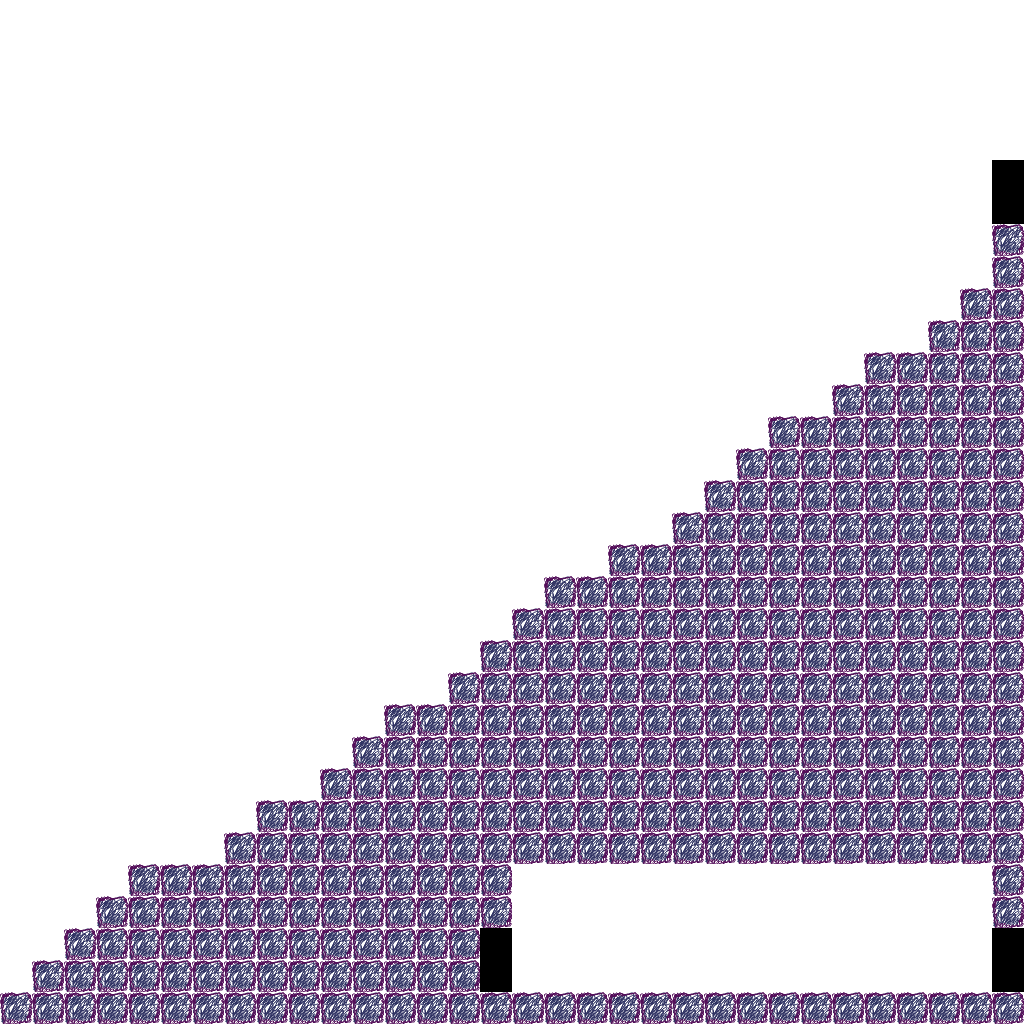
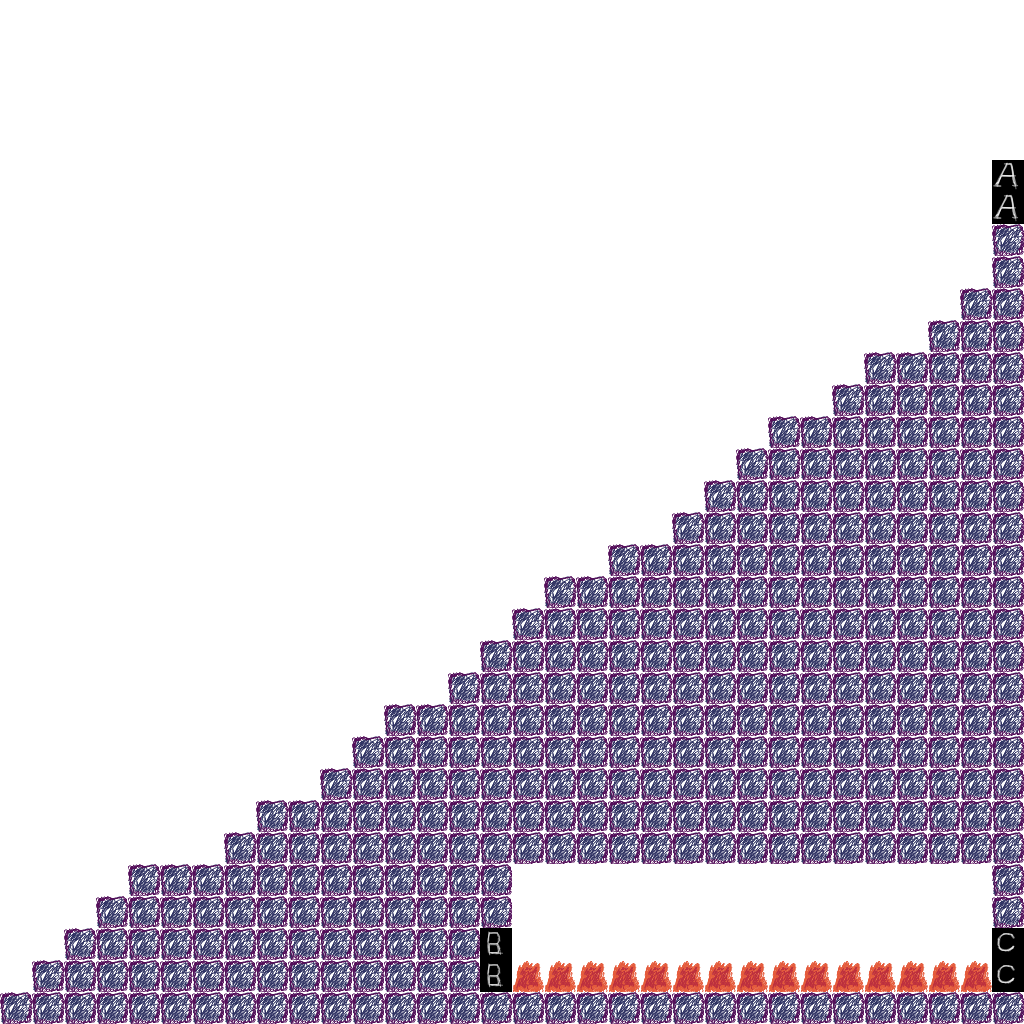
stormaldn mountain

Changed region(s): [[0.4688, 0.9062, 1.0, 0.9688], [0.9688, 0.1562, 1.0, 0.2188]]

diff --git a/src/static/data/maps/tileset.tsx b/src/static/data/maps/tileset.tsx
@@ -101,31 +101,31 @@
   <properties>
    <property name="name" value="teleporterA"/>
   </properties>
-  <image width="32" height="32" source="gimpTiles/teleporter.png"/>
+  <image width="32" height="32" source="gimpTiles/teleporterA.png"/>
  </tile>
  <tile id="22">
   <properties>
    <property name="name" value="teleporterB"/>
   </properties>
-  <image width="32" height="32" source="gimpTiles/teleporter.png"/>
+  <image width="32" height="32" source="gimpTiles/teleporterB.png"/>
  </tile>
  <tile id="23">
   <properties>
    <property name="name" value="teleporterC"/>
   </properties>
-  <image width="32" height="32" source="gimpTiles/teleporter.png"/>
+  <image width="32" height="32" source="gimpTiles/teleporterC.png"/>
  </tile>
  <tile id="24">
   <properties>
    <property name="name" value="teleporterD"/>
   </properties>
-  <image width="32" height="32" source="gimpTiles/teleporter.png"/>
+  <image width="32" height="32" source="gimpTiles/teleporterD.png"/>
  </tile>
  <tile id="25">
   <properties>
    <property name="name" value="teleporterE"/>
   </properties>
-  <image width="32" height="32" source="gimpTiles/teleporter.png"/>
+  <image width="32" height="32" source="gimpTiles/teleporterE.png"/>
  </tile>
  <tile id="26">
   <properties>
